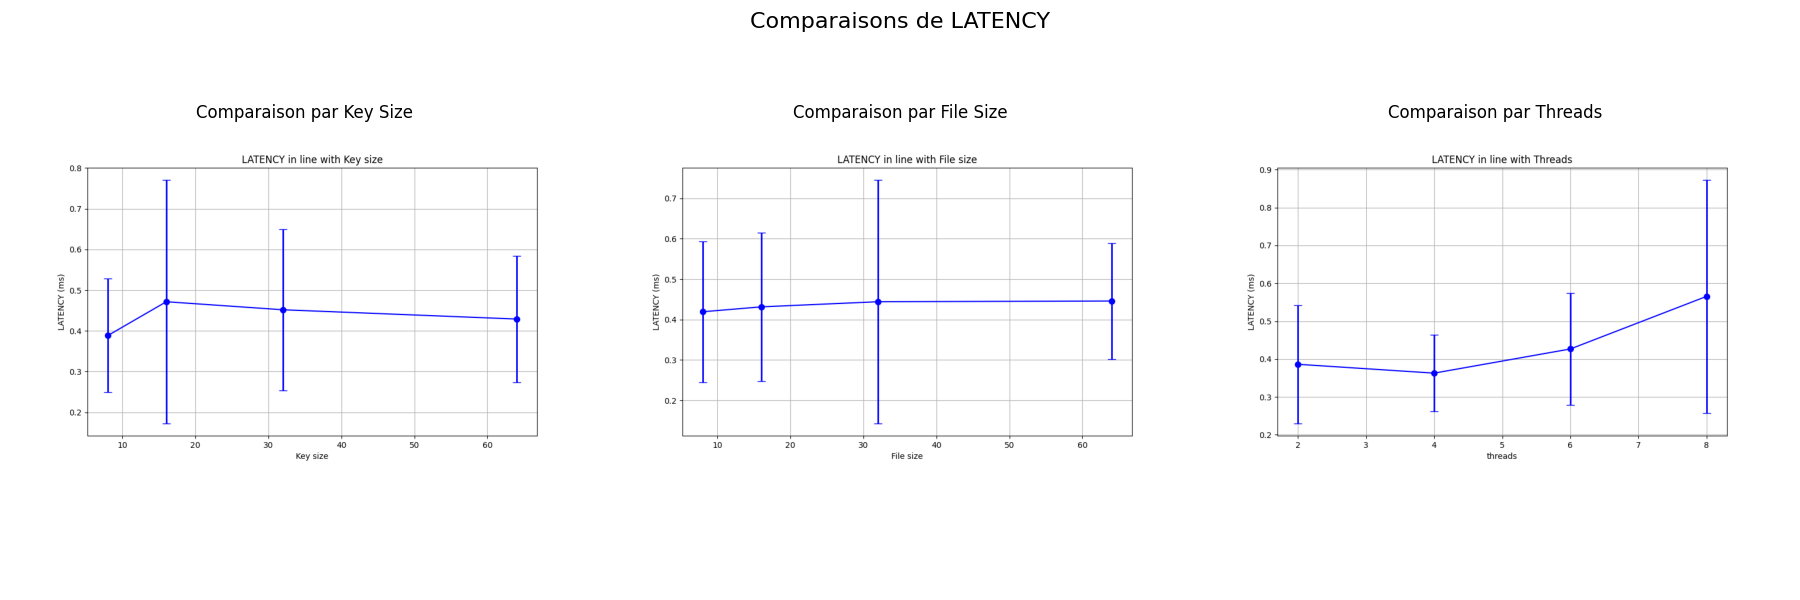
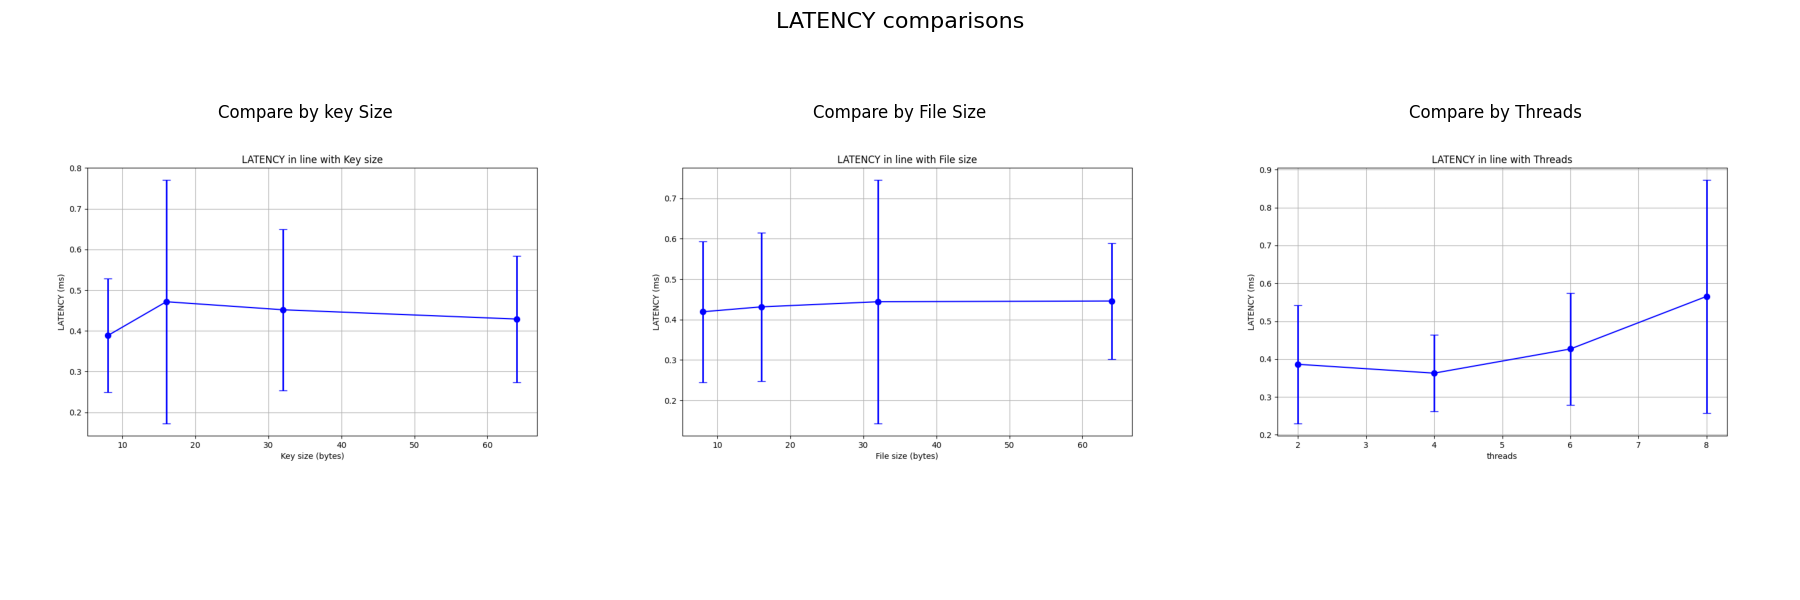
new graph

diff --git a/project/python_scripts/scriptCsv.py b/project/python_scripts/scriptCsv.py
@@ -5,15 +5,16 @@ import os
 
 
 datas = pd.read_csv("../data/measurements.csv")
+datas['LATENCY'] = datas['LATENCY'] * 1000
 
-mean_latency = datas.groupby('key_size')['LATENCY'].mean() * 1000
-error = datas.groupby('key_size')['LATENCY'].std() * 1000
+mean_latency = datas.groupby('key_size')['LATENCY'].mean() 
+error = datas.groupby('key_size')['LATENCY'].std() 
 plt.figure(figsize=(10, 6))
 
 mean_latency.plot(kind='line', color='blue')
 plt.scatter(mean_latency.index, mean_latency.values, color='blue', label='Points', s=50)
 plt.errorbar(mean_latency.index, mean_latency.values, yerr=error.values, fmt='o', color='blue', elinewidth=2, capsize=5, label='Barres d\'erreur')
-plt.xlabel('Key size')
+plt.xlabel('Key size (bytes)')
 plt.ylabel('LATENCY (ms)')
 plt.title('LATENCY in line with Key size')  
 plt.grid(True)
@@ -23,14 +24,14 @@ plt.close()
 
 
 
-mean_latency = datas.groupby('file_size')['LATENCY'].mean() * 1000
-error = datas.groupby('file_size')['LATENCY'].std() * 1000
+mean_latency = datas.groupby('file_size')['LATENCY'].mean() 
+error = datas.groupby('file_size')['LATENCY'].std() 
 plt.figure(figsize=(10, 6))
 
 mean_latency.plot(kind='line', color='blue')
 plt.scatter(mean_latency.index, mean_latency.values, color='blue', label='Points', s=50)
 plt.errorbar(mean_latency.index, mean_latency.values, yerr=error.values, fmt='o', color='blue', elinewidth=2, capsize=5, label='Barres d\'erreur')
-plt.xlabel('File size')
+plt.xlabel('File size (bytes)')
 plt.ylabel('LATENCY (ms)')
 plt.title('LATENCY in line with File size')  
 plt.grid(True)
@@ -40,8 +41,8 @@ plt.close()
 
 
 
-mean_latency = datas.groupby('threads')['LATENCY'].mean() * 1000
-error = datas.groupby('threads')['LATENCY'].std() * 1000
+mean_latency = datas.groupby('threads')['LATENCY'].mean() 
+error = datas.groupby('threads')['LATENCY'].std() 
 plt.figure(figsize=(10, 6))
 
 mean_latency.plot(kind='line', color='blue')
@@ -53,34 +54,6 @@ plt.title('LATENCY in line with Threads')
 plt.grid(True)
 plt.savefig("../plots/threadsPlot.PNG")
 plt.close()
-
-
-
-
-result = datas.groupby(['file_size', 'threads'])['LATENCY'].mean().unstack() * 1000
-result.plot(kind='area', stacked=True, figsize=(10, 6))
-plt.xlabel('file size')
-plt.ylabel('LATENCY (ms)')
-plt.title('LATENCY by File Size and Threads')
-plt.legend(title='Threads')
-plt.grid(True)
-plt.savefig("../plots/fileThreadsplots.PNG")
-plt.close()
-
-
-
-result = datas.groupby(['key_size', 'threads'])['LATENCY'].mean().unstack() * 1000
-result.plot(kind='area', stacked=True, figsize=(10, 6))
-plt.xlabel('key_size')
-plt.ylabel('LATENCY (ms)')
-plt.title('LATENCY by Key Size and Threads')
-plt.legend(title='Threads')
-plt.grid(True)
-plt.savefig("../plots/keyThreadsplots.PNG")
-plt.close()
-
-
-
 
 
 
@@ -104,9 +77,74 @@ plt.title('Compare by Threads')
 plt.tight_layout()
 
 plt.suptitle('LATENCY comparisons', fontsize=16)
-
-# Affiche le graphique assemblé
 plt.savefig("../plots/compare3.PNG")
 plt.close()
 
 
+
+
+
+grouped = datas.groupby(['file_size', 'key_size']).LATENCY.mean().reset_index() 
+
+for key in grouped['key_size'].unique():
+    subset = grouped[grouped['key_size'] == key]
+    plt.plot(subset['file_size'], subset['LATENCY'], label=f"Key Size: {key}", marker='o')
+
+plt.legend()
+plt.xlabel("File Size (bytes)")
+plt.ylabel("Latency (ms)")
+plt.title("Average Latency vs. File Size for Different Key Sizes")
+plt.grid(True)
+plt.savefig("../plots/latency_vs_filesize.PNG")
+plt.close()
+
+
+
+
+grouped = datas.groupby(['key_size', 'file_size']).LATENCY.mean().reset_index()
+for size in grouped['file_size'].unique():
+    subset = grouped[grouped['file_size'] == size]
+    plt.plot(subset['key_size'], subset['LATENCY'], label=f"File Size: {size} bytes", marker='o')
+
+plt.legend()
+plt.xlabel("Key Size (bits)")
+plt.ylabel("Latency (ms)")
+plt.title("Latency vs. Key Size for Different File Sizes")
+
+# Grille
+plt.grid(True)
+plt.savefig("../plots/latency_vs_keysize.PNG")
+plt.close()
+
+
+
+
+
+# Grouper par key_size et threads puis calcule la latence moyenne
+grouped = datas.groupby(['key_size', 'threads']).LATENCY.mean().reset_index()
+for thread in grouped['threads'].unique():
+    subset = grouped[grouped['threads'] == thread]
+    plt.plot(subset['key_size'], subset['LATENCY'], label=f"Threads: {thread}", marker='o')
+
+plt.legend()
+plt.xlabel("Key Size (bytes)")
+plt.ylabel("Latency (ms)")
+plt.title("Average Latency vs. Key Size for Different Number of Threads")
+plt.grid(True)
+plt.savefig("../plots/latency_vs_keysize_threads.PNG")
+plt.close()
+
+
+# Grouper par file_size et threads puis calcule la latence moyenne
+grouped = datas.groupby(['file_size', 'threads']).LATENCY.mean().reset_index()
+for thread in grouped['threads'].unique():
+    subset = grouped[grouped['threads'] == thread]
+    plt.plot(subset['file_size'], subset['LATENCY'], label=f"Threads: {thread}", marker='o')
+
+plt.legend()
+plt.xlabel("File Size (bytes)")
+plt.ylabel("Latency (ms)")
+plt.title("Average Latency vs. File Size for Different Number of Threads")
+plt.grid(True)
+plt.savefig("../plots/latency_vs_filesize_threads.PNG")
+plt.close()
